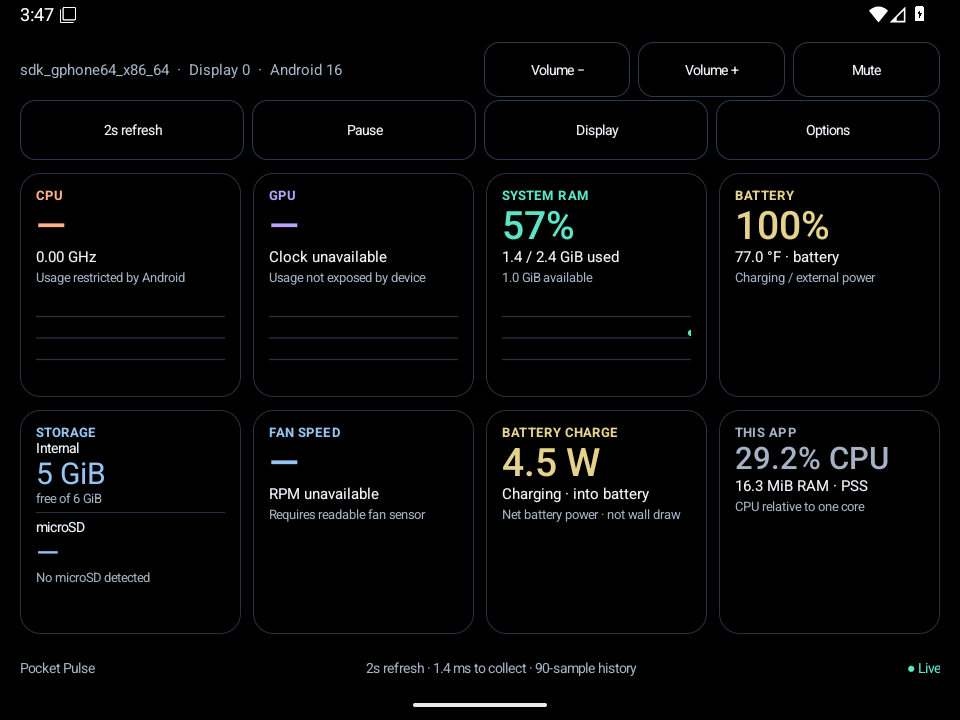
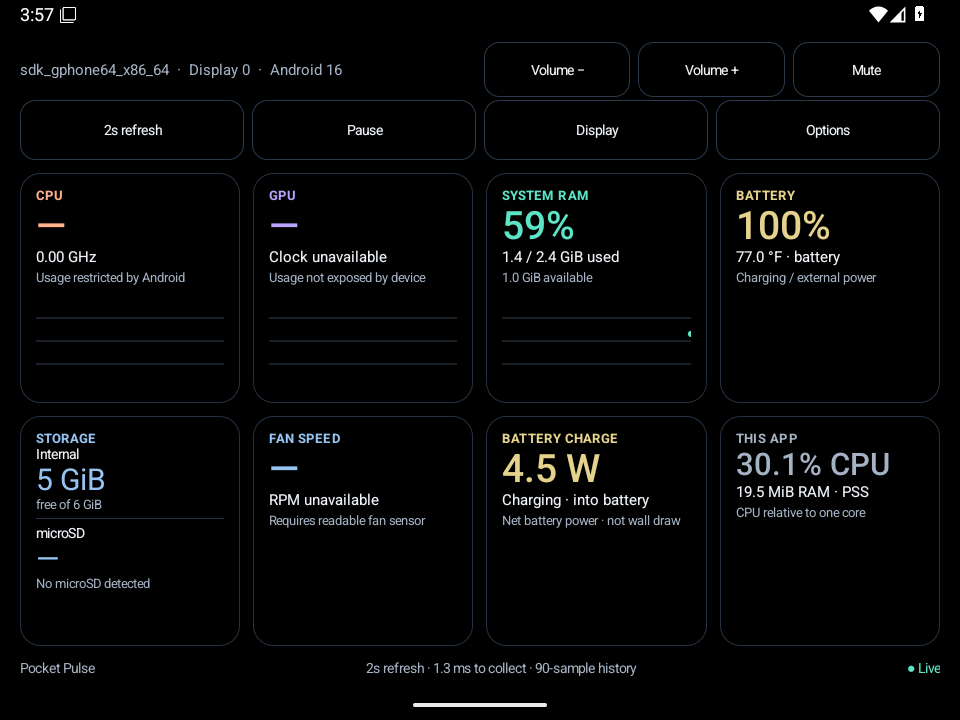
Document verified auto-fit behavior and refresh screenshots

diff --git a/README.md b/README.md
@@ -1,21 +1,23 @@
 # Pocket Pulse — Android handheld performance monitor
 
-Version **0.2.0**. Lightweight native Java / Android framework only. Android 8.0 (API 26) or newer, targeting API 36. No runtime libraries or account required.
+Version **0.2.1**. Lightweight native Java / Android framework only. Android 8.0 (API 26) or newer, targeting API 36. No runtime libraries or account required.
 
-[Download the latest APK](https://github.com/TygerBDevTeam/pocket-pulse/releases/latest/download/Pocket-Pulse-0.2.0.apk) · [Release notes and downloads](https://github.com/TygerBDevTeam/pocket-pulse/releases)
+[Download the latest APK](https://github.com/TygerBDevTeam/pocket-pulse/releases/latest/download/Pocket-Pulse-0.2.1.apk) · [Release notes and downloads](https://github.com/TygerBDevTeam/pocket-pulse/releases)
 
-**Upgrading from 0.1.0:** the original signing key was unavailable on this computer. Uninstall 0.1.0 once, then install 0.2.0. Your Pocket Pulse settings will reset. Future releases signed with the new, privately retained key can install over 0.2.0 normally.
+**Upgrading from 0.2.0:** install 0.2.1 normally over the existing app; settings are preserved and no uninstall is needed. The same private signing key is used. Only installations still on **0.1.0** need a one-time uninstall because that version's original signing key was unavailable.
 
 ## Dashboard
 
 - Compact top row with **Volume −, Volume +, Mute / Unmute** for Android's media/game audio stream.
 - Eight cards in four columns and two rows when the window is wide enough: CPU, GPU, system RAM, battery, storage, fan speed, battery draw, and this app's own CPU/memory usage at bottom right.
+- **Auto-fit dashboard** is on by default, including upgrades from 0.2.0. Sizing uses the actual usable window, density, system-bar insets and Android font metrics. It preserves full cards where they fit and uses progressively tighter spacing/text, smaller storage rows and hidden charts/secondary notes when needed. Four-column layouts can fit shorter landscape screens instead of forcing four tall rows. Extremely small windows or large accessibility text retain scrolling rather than shrinking text indefinitely. Tap a tight card for its full reading; turn auto-fit off in Options if full cards with scrolling are preferred.
+- **Options → GPU card:** choose GPU activity, Display info (refresh rate and window resolution), or Device uptime (since restart, including sleep). Selection is saved. Display refresh rate is not game FPS.
 - Storage shows **internal and microSD free/total space together**. Options can replace that card with Android thermal status; the choice is saved.
 - **Every displayed temperature is Fahrenheit**, including the copied device report.
 - Small Pocket Pulse label at bottom left, refresh/collection information in the middle, and Live / Paused at bottom right.
 - Options → **Check for updates** checks this repository's published releases, including test builds. A newer release must have a finished APK asset. Download opens in your browser; Android confirms installation. Checks happen only when requested, never automatically or during telemetry polling.
 
-Layouts adapt to 4:3, Thor-shaped landscape lower screens, portrait, split screen, display density, and larger system fonts. Short windows scroll rather than clipping cards. Retroid Pocket Nova with a dual-screen attachment is the user's initial target; AYN Thor and Anbernic DDS are intended targets, not hardware-validated claims.
+Layouts adapt to 4:3, Thor-shaped landscape lower screens, portrait, split screen, display density, and larger system fonts. The 1280 × 960 Nova resolution is included in automated density-based layout checks. The user reports 0.2.0 fitting their Anbernic 477M and overflowing slightly on their default Nova setup; 0.2.1 removes the fixed card minimum responsible for that overflow. Physical-device confirmation of the fix is still required. AYN Thor and Anbernic DDS remain intended targets, not hardware-validated claims.
 
 ## Landscape captures
 
@@ -25,9 +27,11 @@ Actual Android emulator captures. Physical-device readings, fonts/density and av
 | --- | --- |
 | ![4:3 landscape](screenshots/landscape-4-3.png) | ![Thor-shaped lower screen](screenshots/thor-lower-screen.png) |
 
+Additional captures: [1280 × 960 high-density fit](screenshots/nova-1280x960.png) · [Display info replacing GPU](screenshots/display-card.png).
+
 ## Install and choose a display
 
-Download `Pocket-Pulse-0.2.0.apk` from Releases, open it in your handheld's file manager, and allow that file manager to install unknown apps if Android asks. See the one-time signing migration above if 0.1.0 is already installed.
+Download `Pocket-Pulse-0.2.1.apk` from Releases, open it in your handheld's file manager, and allow that file manager to install unknown apps if Android asks. Install over 0.2.0; see the one-time migration above only if 0.1.0 is still installed.
 
 Use the handheld launcher/screen-switch shortcut to open Pocket Pulse on the secondary display, or tap **Display** and choose an accessible display. Android and OEM firmware control whether the move is allowed. Run your game on the other screen. No overlay or background service is required.
 
@@ -53,7 +57,7 @@ A dash means unavailable or waiting for a valid interval. There are no estimated
 - `INTERNET` is for manual HTTPS GitHub release checks only. `MODIFY_AUDIO_SETTINGS` is for media-volume controls. No broad file access, root, account, analytics, ads, overlay, boot receiver, wake lock or background service.
 - Update checks use a separate cancellable thread, timeouts, a bounded response and HTTPS repository-checked download links. They do not block telemetry collection. No credentials or device report are sent.
 
-**Options → About / readings → Copy device report** copies model, Android version, displays, counter sources, storage sources and current readings, with temperatures in °F. Nothing is uploaded. Include this report when reporting device-support issues; exclude serial numbers or account information.
+**Options → About / readings → Copy device report** copies model, Android version, displays, usable window/viewport size, density, font scale, selected layout profile/card size, counter/storage sources and current readings, with temperatures in °F. Nothing is uploaded. Include this report when reporting device-support issues; exclude serial numbers or account information.
 
 ## Build on Windows
 

diff --git a/VALIDATION.md b/VALIDATION.md
@@ -1,4 +1,26 @@
-# Validation — Pocket Pulse 0.2.0
+# Validation — Pocket Pulse 0.2.1
+
+Performed November 6, 2026 (America/Chicago).
+
+## Screen-fit fix and GPU card choices
+
+[Passing Android verification run](https://github.com/TygerBDevTeam/pocket-pulse/actions/runs/42246735301) exercised the release's app sources on Android 16 / API 36. Native captures were downloaded and visually inspected before publication.
+
+- Local JDK 17 / SDK 36 build succeeded, including APK alignment and v2/v3 signatures. Version code 3, version name 0.2.1, minimum API 26, target API 36. The certificate exactly matches the 0.2.0 APK, so installing over 0.2.0 preserves settings without uninstalling.
+- All 52 telemetry and 25 release-version checks passed. The 20 on-Android release-selection checks also passed.
+- Added 25,595 layout checks, including representative short/high-density geometry, preferred normal sizing, row-gap rounding, width bounds, manual opt-out, accessibility sizing and a sweep of window dimensions/densities. These are geometry/property checks, separate from the native screen checks below.
+- **1280 × 960 at density 240, 280, 320, 360 and 400:** every native run explicitly asserted all eight cards and the Internal/microSD labels were present and the dashboard was **not scrollable**. The 320dpi and 400dpi captures were visually inspected for bottom-card content, readable values and footer separation; 240dpi retains the spacious layout.
+- Baseline 960 × 720 at density 200 and Thor-shaped 1240 × 1080 at density 320 also explicitly passed all-eight-cards/no-scroll assertions. Their captures were visually inspected.
+- A small 480 × 360 window correctly retained the readable scrolling fallback; the last card was reachable. Portrait and 1.3× font-size captures were also produced.
+- GPU → Display info selection displayed the actual emulator refresh rate and app-window dimensions, persisted through process restart, then switched successfully to Device uptime and back to GPU activity. No GPU history chart was shown for the replacement card.
+- Existing checks for saved refresh interval, saved thermal/storage selection, Fahrenheit-only readings, mute/unmute, single-display fallback, no idle frames when paused/hidden, and a live GitHub update check passed again.
+- No Pocket Pulse Android crash-log entries were recorded.
+
+The user reports 0.2.0 overflowing slightly on their default 1280 × 960 Nova and fitting their Anbernic 477M. The new build was not physically installed on those handhelds during this session. Automated density-based tests cover the reported resolution without assuming a model-specific DPI. OEM secondary-display switching and hardware sensors retain the limitations below. Extremely small windows or large accessibility fonts may still scroll to protect readability.
+
+The published APK is built locally with the same preserved private key as 0.2.0. Hosted verification uses a separate temporary CI key and receives no private release material. Source archives exclude signing files.
+
+# Historical validation — Pocket Pulse 0.2.0
 
 Performed November 5, 2026 (America/Chicago). Physical handheld compatibility remains to be confirmed.
 

diff --git a/CHANGELOG.md b/CHANGELOG.md
@@ -1,5 +1,14 @@
 # Changelog
 
+## 0.2.1
+
+- Fix bottom-row overflow on shorter/high-density handheld windows by replacing the fixed minimum card height with font-measured adaptive profiles and exact viewport geometry.
+- Auto-fit is enabled by default on fresh installs and upgrades. Full-size cards stay where they fit; shorter screens use tighter spacing, smaller storage rows and fewer secondary details. Tap tight cards for full readings. Very small windows/large accessibility fonts keep a readable scrolling fallback. Auto-fit can be disabled in Options.
+- Choose GPU activity, Display info, or Device uptime for the GPU card in Options. Choice survives restart; display refresh is explicitly labeled separately from game FPS.
+- Device reports now include actual window/viewport size, density, font scale and selected card geometry for layout troubleshooting.
+- Expand automated checks to 1280 × 960 at multiple densities, no-scroll assertions, GPU replacements and saved selection, with baseline 4:3/Thor-sized/compact/portrait checks retained.
+- Same signing key as 0.2.0: install directly over 0.2.0 without losing settings.
+
 ## 0.2.0
 
 - Approved compact eight-card landscape layout, with Pocket Pulse and live status moved into the footer.

diff --git a/CONTRIBUTING.md b/CONTRIBUTING.md
@@ -11,3 +11,5 @@ Build using `build.ps1` as described in the README. It runs counter/unit and sem
 Keep signing keys, local SDKs, build directories, device-specific files, and private credentials out of commits. Publish the signed APK as a GitHub release asset. Keep the original development key locally if issuing compatible updates; a public release should have its own privately managed release key.
 
 Changes should preserve the distinction between telemetry collection time, this app's measured CPU/PSS, and actual gameplay impact. Claims about game FPS or battery impact require measurements on physical hardware.
+
+Dashboard sizing must use the measured usable viewport and actual Android font metrics. Do not reintroduce a fixed minimum height that silently forces scrolling on common landscape screens. Validate 1280 × 960 with densities 240, 280, 320, 360 and 400, including assertions that all eight cards fit without scrolling. Keep an accessible scrolling fallback for genuinely tiny windows. Preserve the GPU replacement choices and their saved preference.
